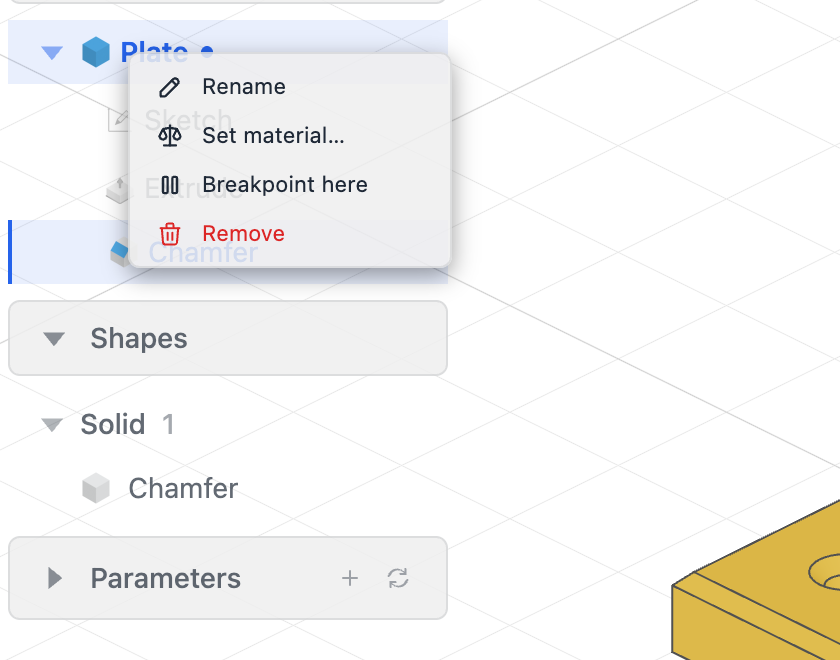
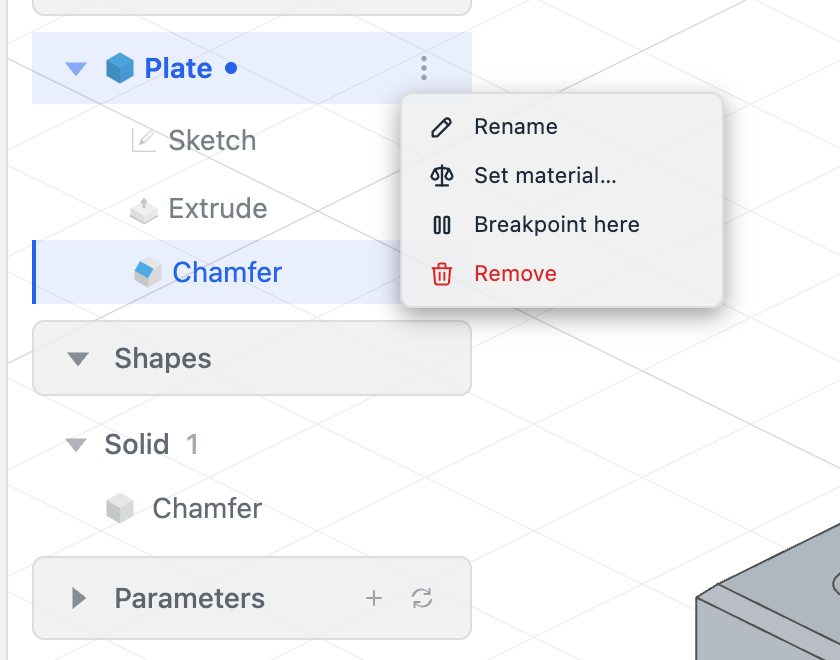
docs(website): part rows open their menu from a ⋮ button as well as a right-click (new light-theme 2x capture), and the Set material dialog keeps the current material first in its group, says Loading materials… until the list arrives and offers Retry when it fails

diff --git a/website/docs-authoring.md b/website/docs-authoring.md
@@ -223,11 +223,15 @@ copies yet also offers **Copy…** (the Copy dialog with that connector); a
 part row offers **Set material…** (the **Set material** dialog: a filter box,
 **None**, then **Built-in** and **Custom** groups — the project's
 `fluidcad.json` entries tagged *in project* plus the user's global materials
-from Settings → Materials — current one checked, density at the right,
-**Apply** / double-click / Enter writes `.material('id')`, **Manage
-materials…** bottom-left opens Settings → Materials; a global material that
-the project lacks is copied into `fluidcad.json` before the statement is
-written). A part row whose material id is unknown carries a warning triangle.
+from Settings → Materials — current one checked and first in its group,
+density at the right, *Loading materials…* until the list arrives and a
+**Retry** when it fails, **Apply** / double-click / Enter writes
+`.material('id')`, **Manage materials…** bottom-left opens Settings →
+Materials; a global material that the project lacks is copied into
+`fluidcad.json` before the statement is written). A part row also carries a
+**⋮** button at its right edge that opens the same menu under it without
+activating the part. A part row whose material id is unknown carries a
+warning triangle.
 Sketch rows fold their constraints behind an *N constraints* toggle row;
 part rows fold *N connectors* (declared connectors only; a Copy row stays
 among the features) and *N exposed*. Feature status glyph: check = served from cache,
